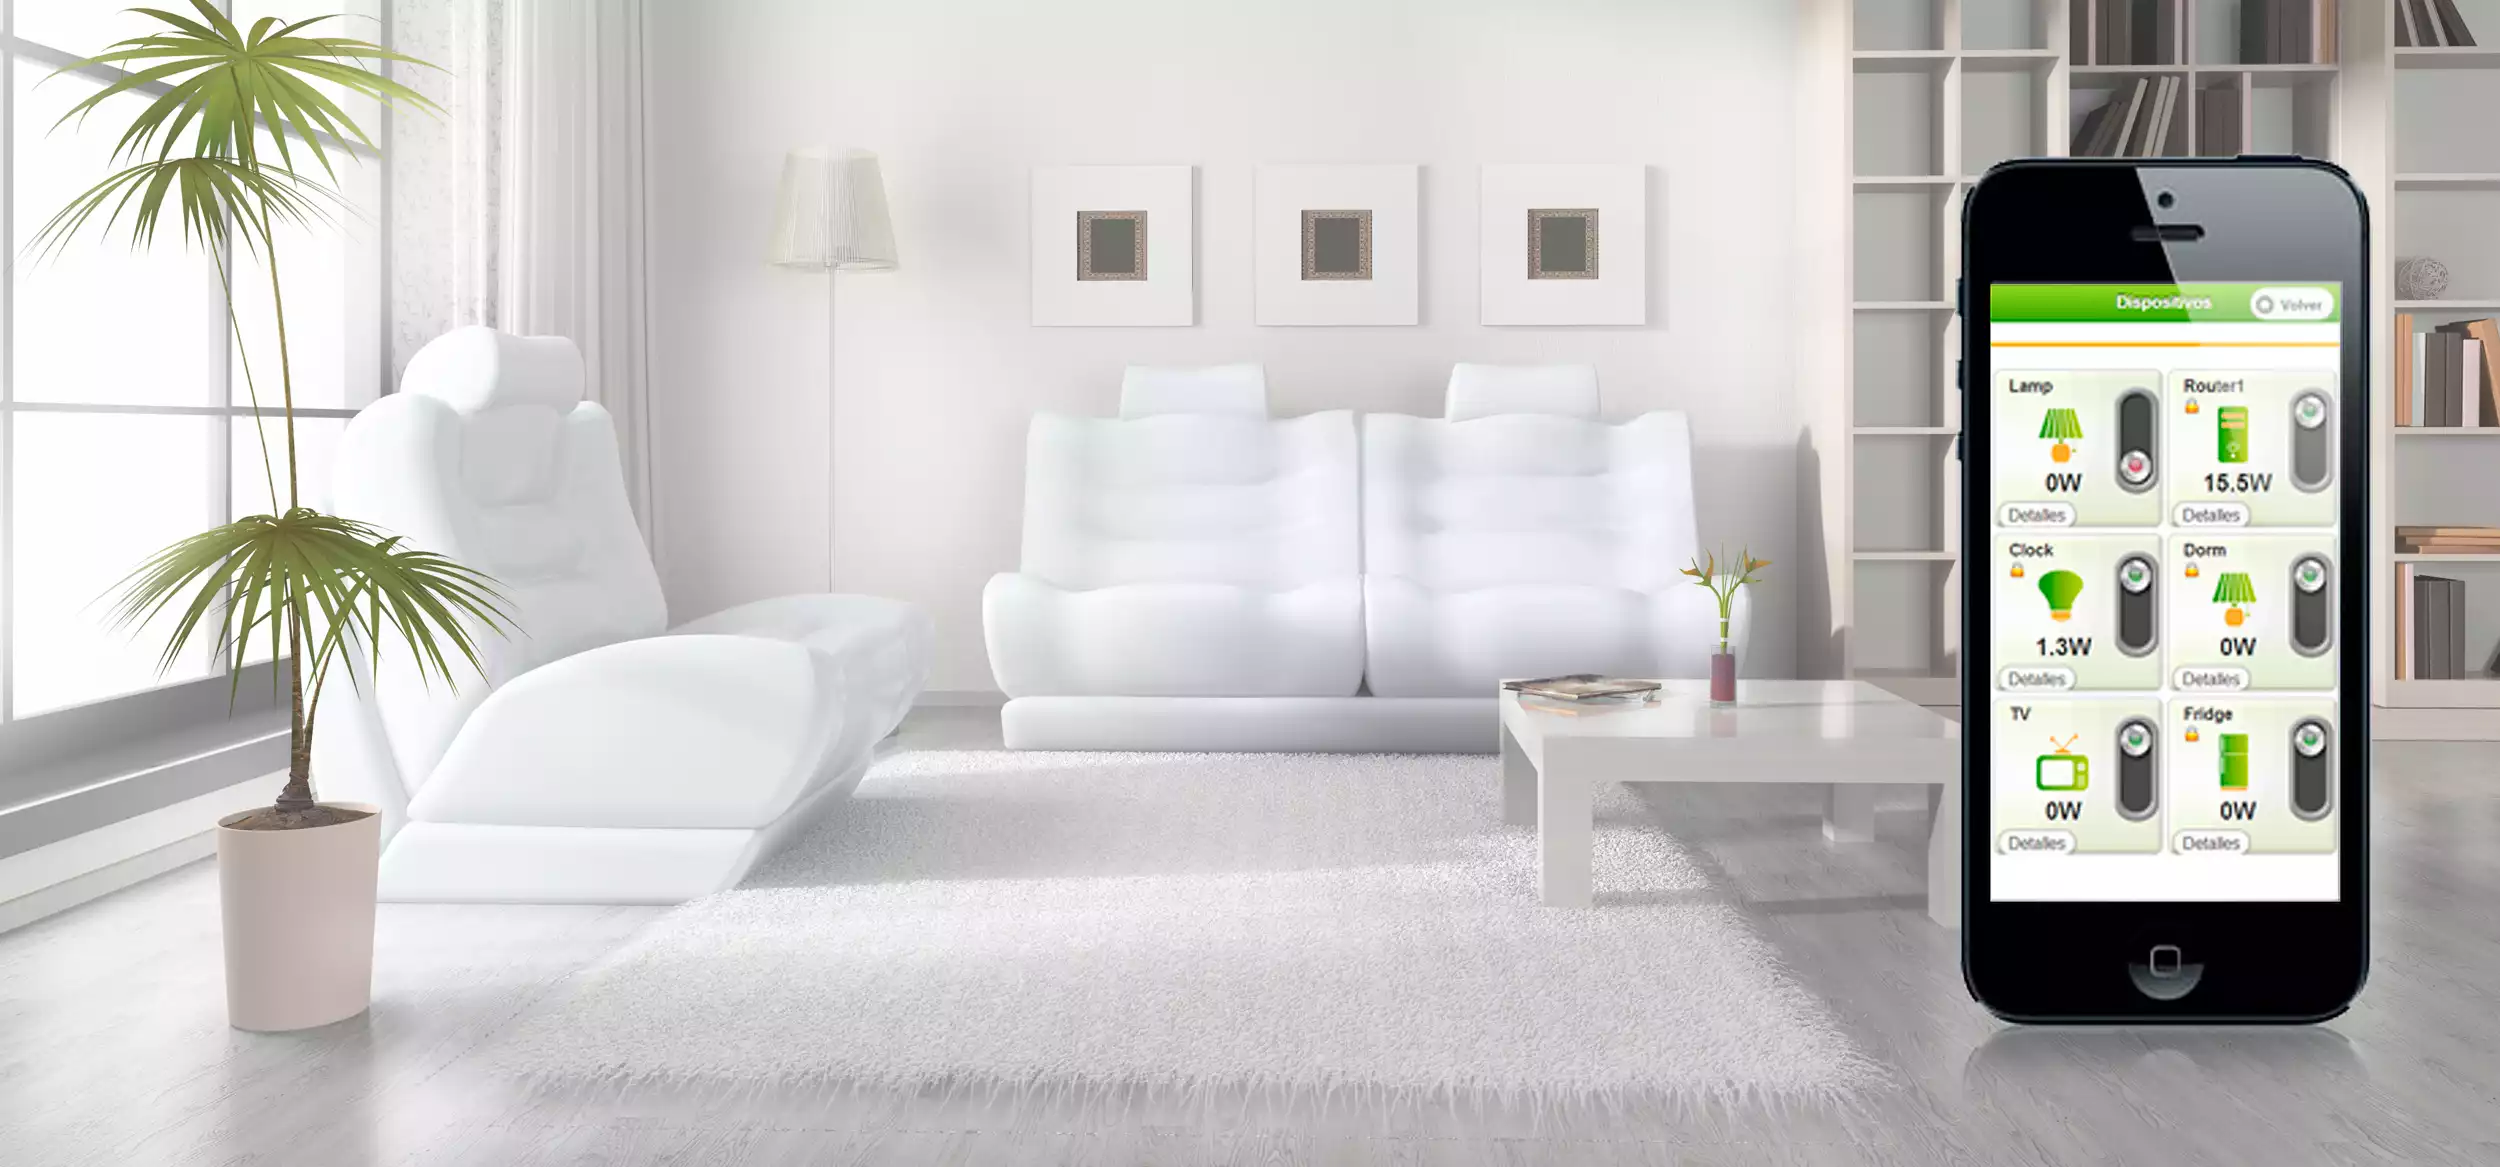
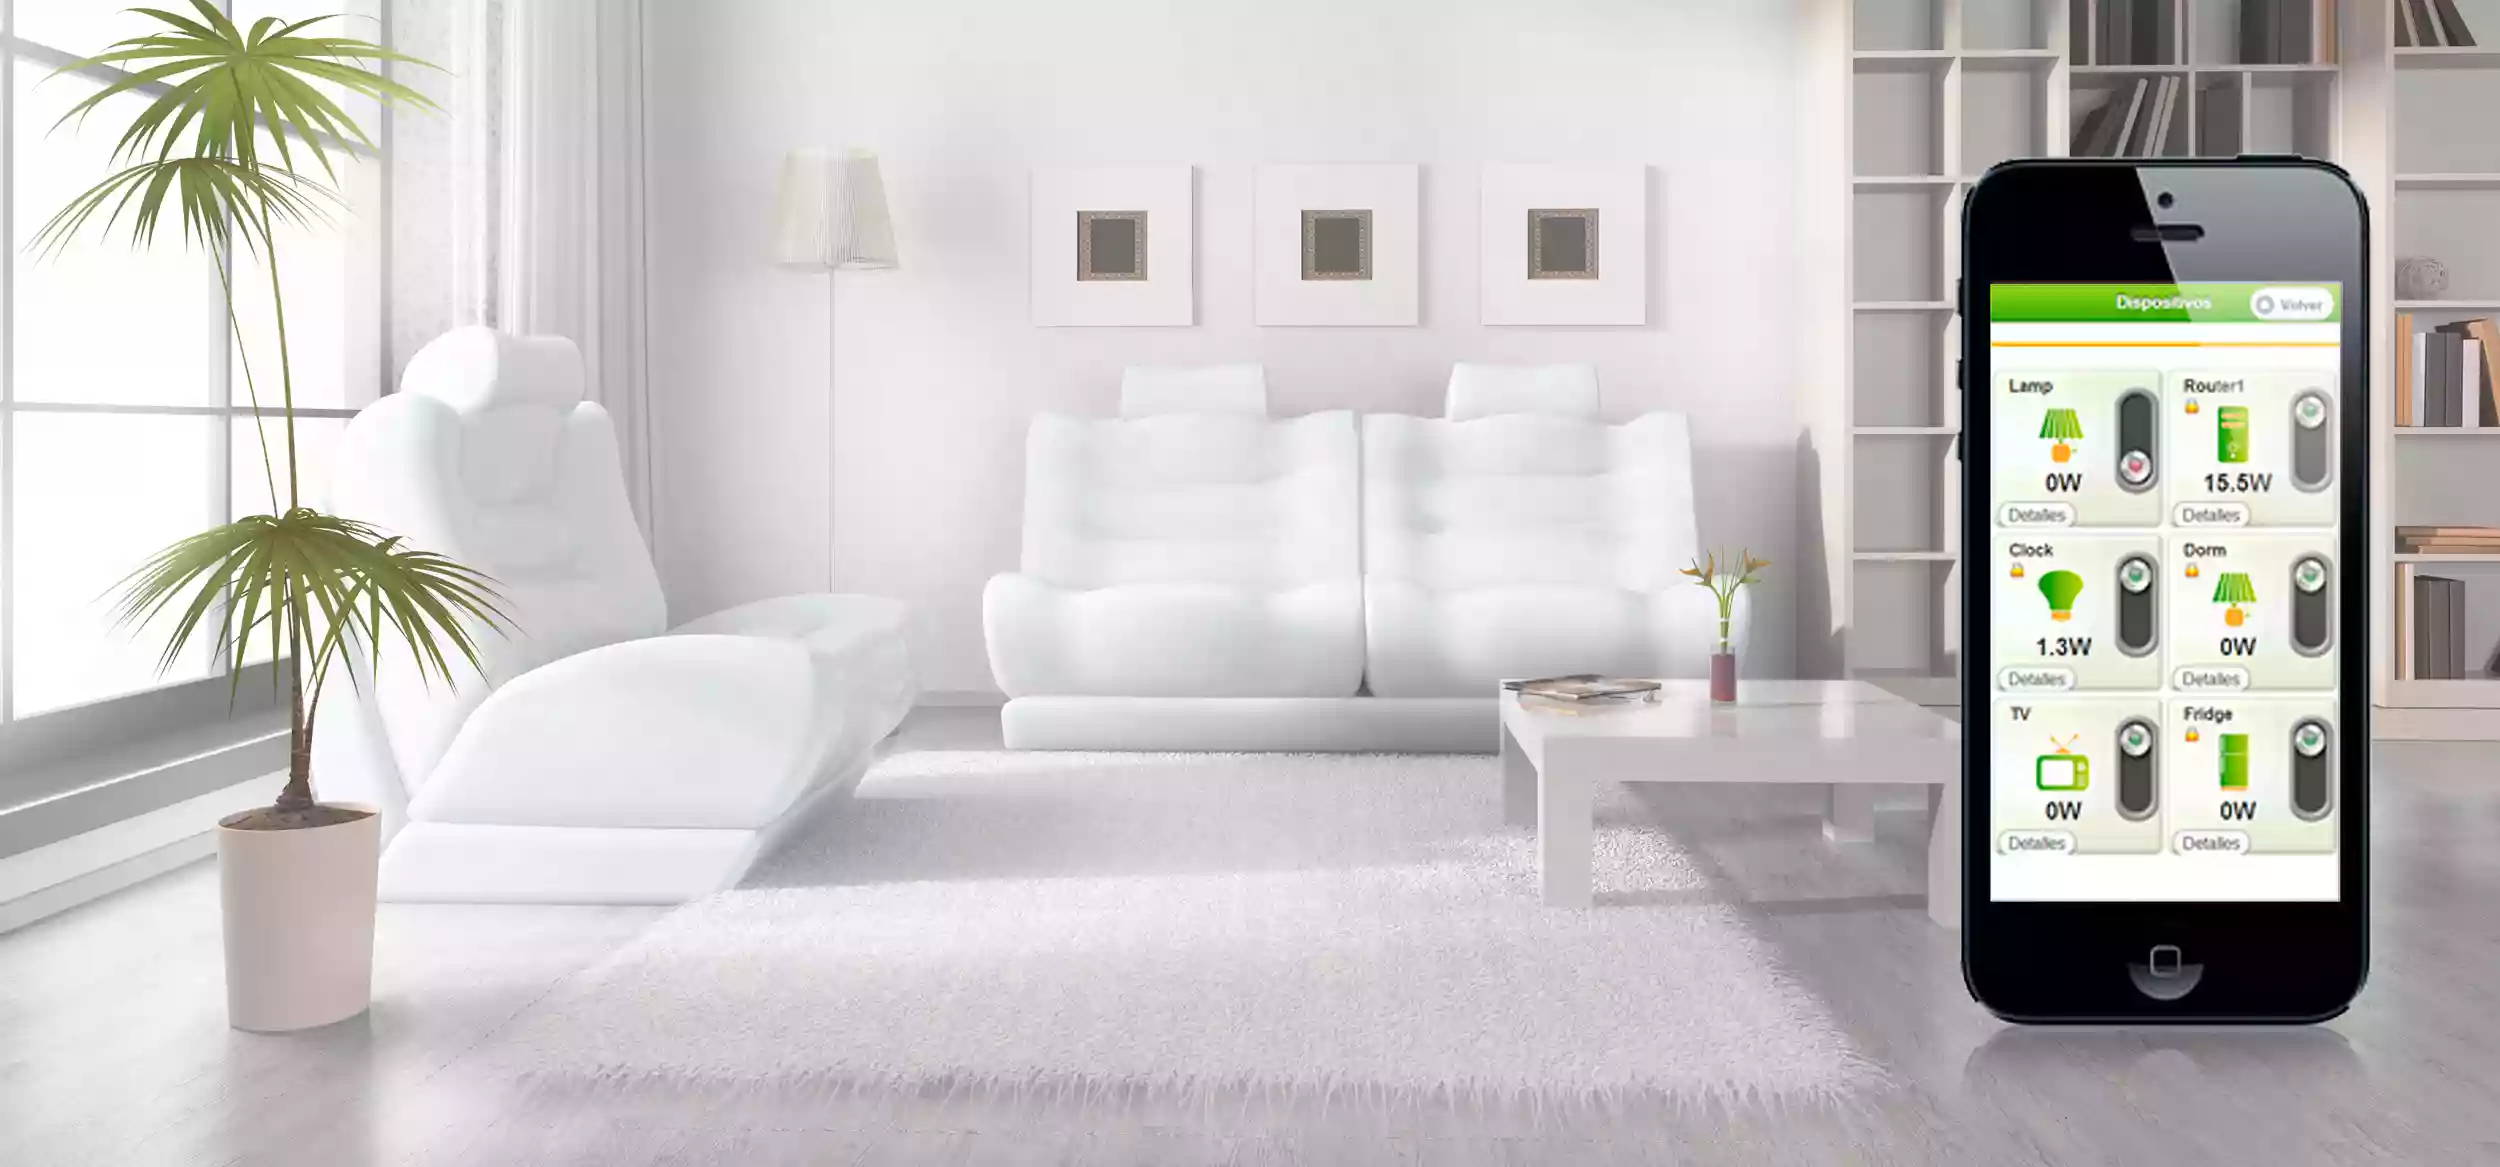
min sh

diff --git a/test.js b/test.js
@@ -1,6 +1,6 @@
 var webp = require("webp-converter");
 
-webp.cwebp("assets/old/banner.jpg", "assets/old/banner.webp", "-q 50", function(
+webp.cwebp("assets/old/banner.jpg", "assets/old/banner.webp", "-q 20", function(
   status
 ) {
   console.log(status);
@@ -9,24 +9,24 @@ webp.cwebp("assets/old/banner.jpg", "assets/old/banner.webp", "-q 50", function(
 webp.cwebp(
   "assets/old/cloud-drizzle.png",
   "assets/old/cloud-drizzle.webp",
-  "-q 50",
+  "-q 20",
   function(status) {
     console.log(status);
   }
 );
 
-webp.cwebp("assets/old/logo.png", "assets/old/logo.webp", "-q 50", function(
+webp.cwebp("assets/old/logo.png", "assets/old/logo.webp", "-q 20", function(
   status
 ) {
   console.log(status);
 });
-webp.cwebp("assets/old/sh.png", "assets/old/sh.webp", "-q 50", function(
+webp.cwebp("assets/old/sh.png", "assets/old/sh.webp", "-q 20", function(
   status
 ) {
   console.log(status);
 });
 
-webp.cwebp("assets/old/sh22.jpg", "assets/old/sh22.webp", "-q 50", function(
+webp.cwebp("assets/old/sh22.jpg", "assets/old/sh22.webp", "-q 20", function(
   status
 ) {
   console.log(status);
